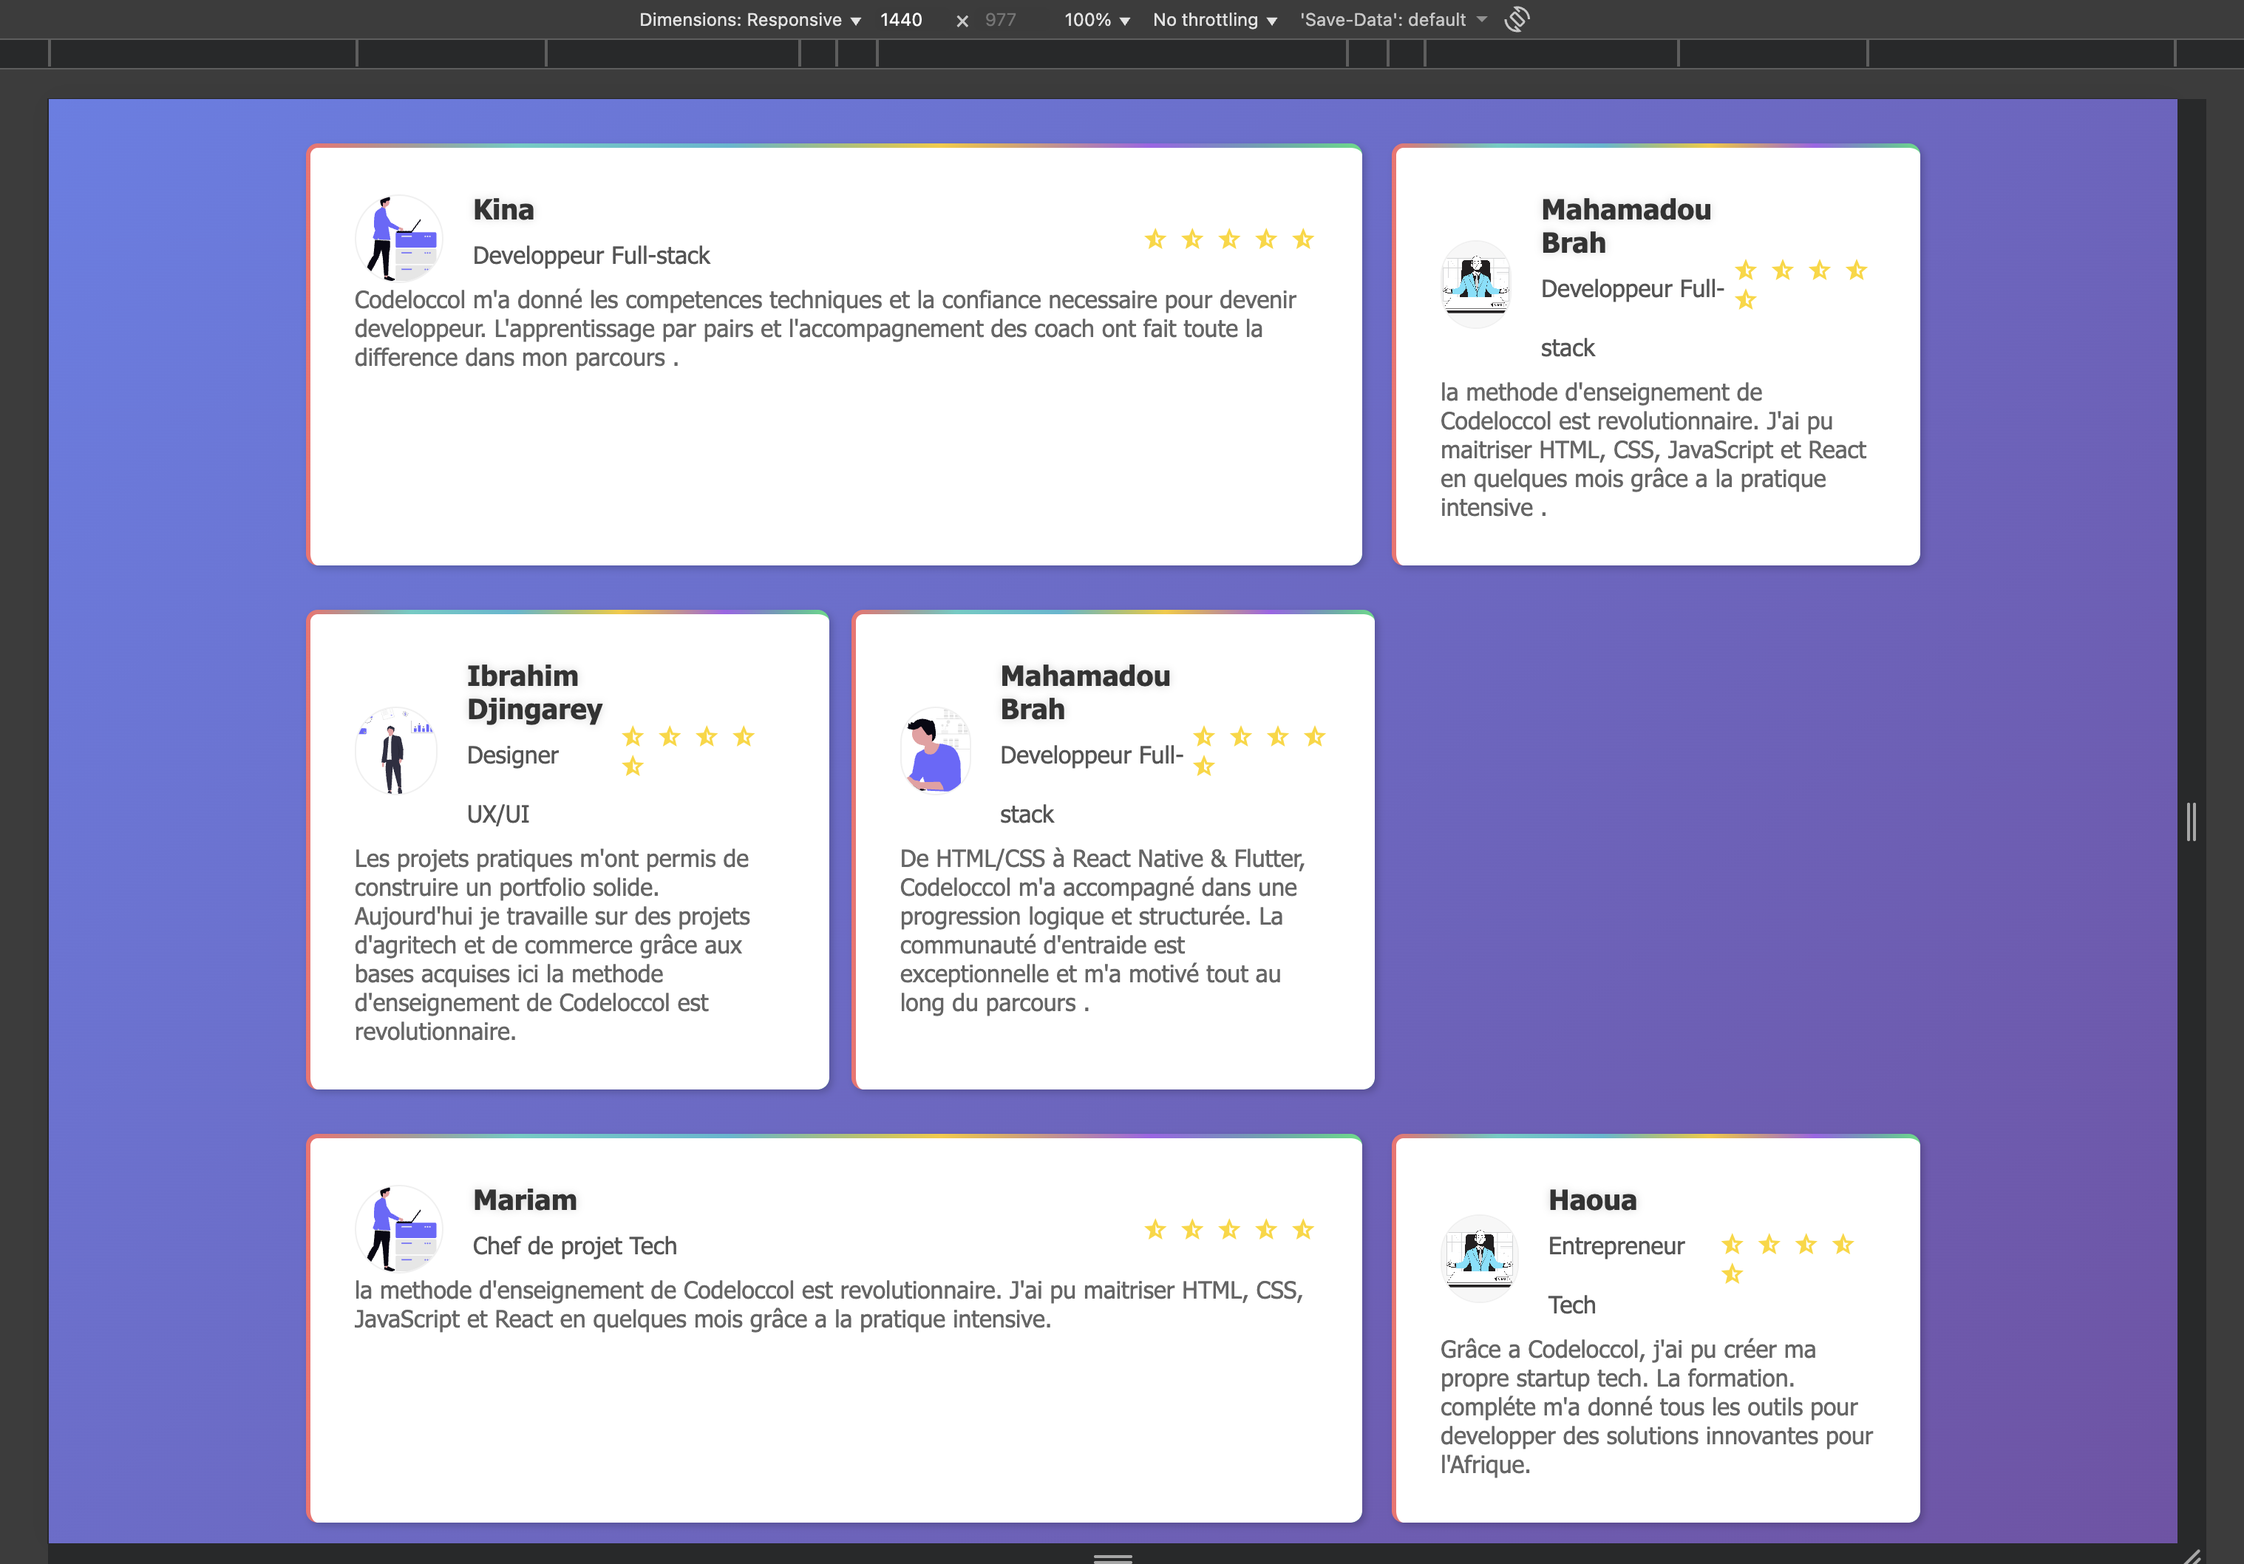
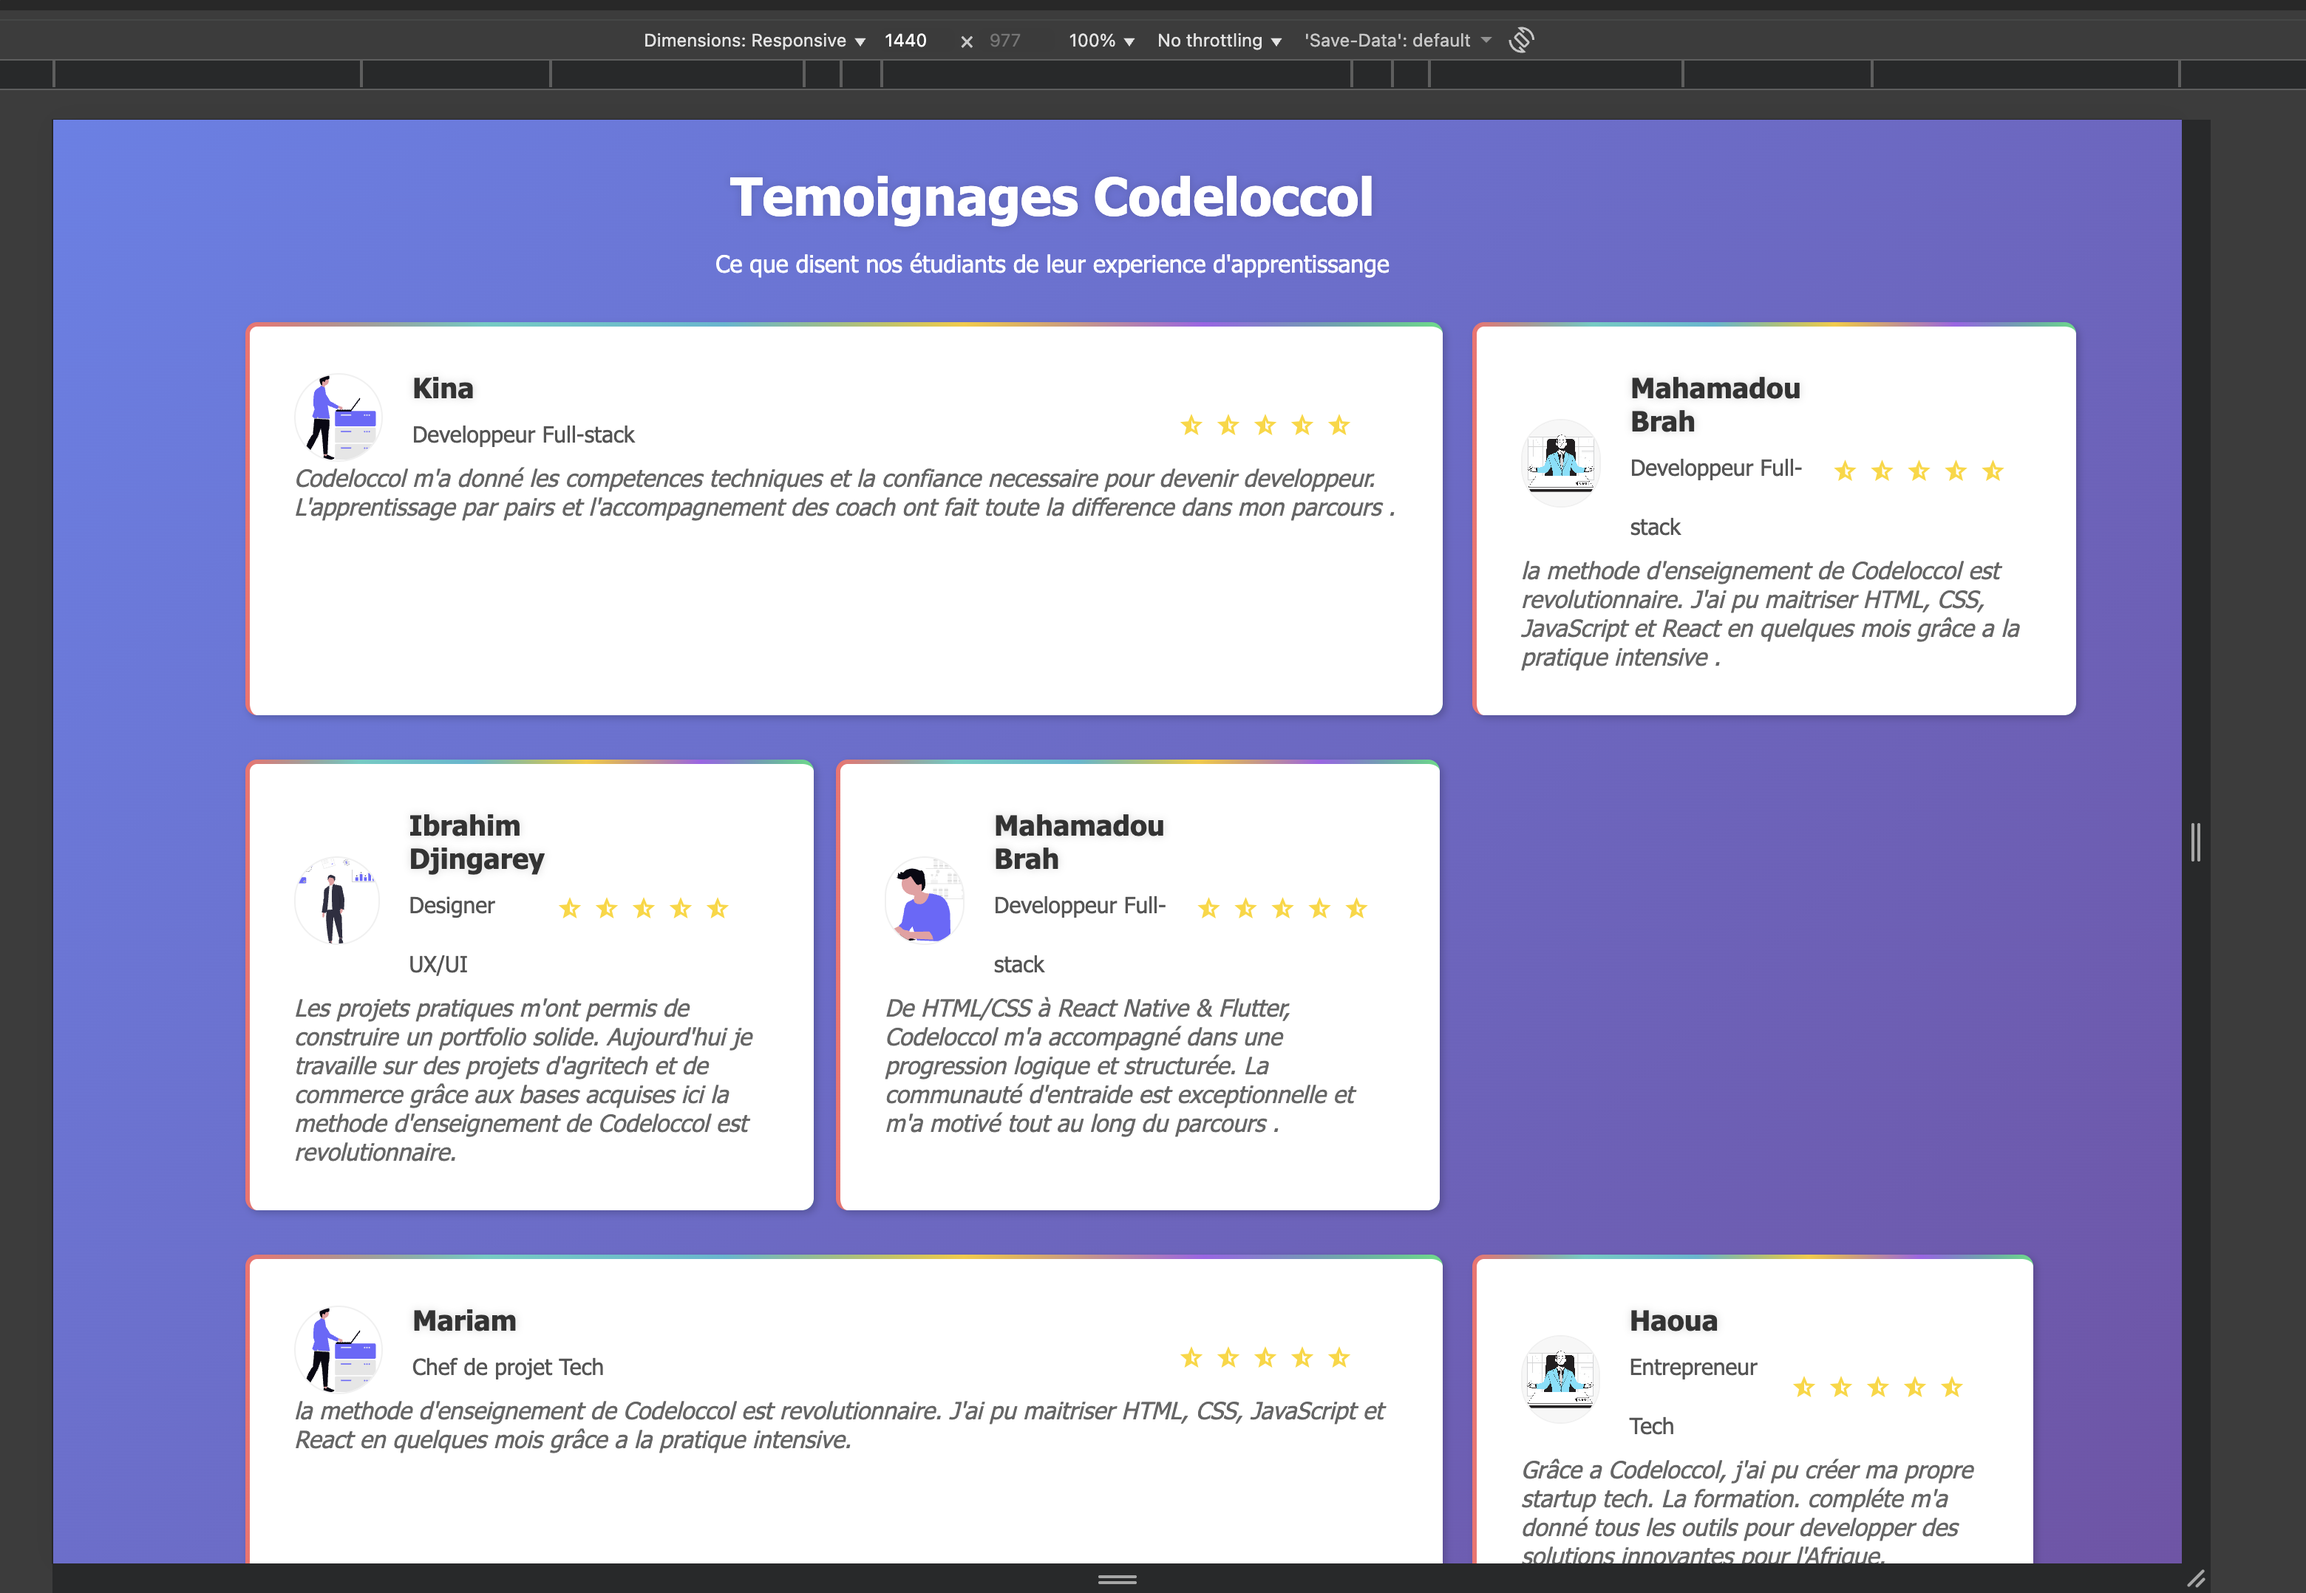
temoignage

diff --git a/index.html b/index.html
@@ -16,7 +16,7 @@
             <p>Ce que disent nos étudiants de leur experience d'apprentissange</p>
         </div>
         <div class="grid">
-            <div class="temoin">
+            <div class="temoin grand">
                 <div class="kina">
                     <div class="personalite">
                         <div class="image">
@@ -44,7 +44,7 @@
 
                 </div>
             </div>
-            <div class="temoin ">
+            <div class="temoin media ">
                 <div class="kina">
                     <div class="personalite">
                         <div class="image">
@@ -72,7 +72,7 @@
                 </div>
             </div>
         </div>
-        <div class="grid section2">
+        <div class="grid section2 media">
             <div class="temoin">
                 <div class="kina">
                     <div class="personalite">
@@ -101,11 +101,11 @@
 
                 </div>
             </div>
-            <div class="temoin">
+            <div class="temoin media">
                 <div class="kina">
                     <div class="personalite">
                         <div class="image">
-                            <img src="./Assets/undraw_working-at-home_pxaa.svg" alt="">
+                            <img src="./Assets/undraw_working-at-home_pxaa.svg" alt="photo de Brah Mahamadou">
                         </div>
                         <div class="dev">
                             <h3>Mahamadou <br>Brah</h3>
@@ -130,7 +130,7 @@
             </div>
         </div>
         <div class="grid">
-            <div class="temoin">
+            <div class="temoin grand">
                 <div class="kina">
                     <div class="personalite">
                         <div class="image">
@@ -157,7 +157,7 @@
 
                 </div>
             </div>
-            <div class="temoin">
+            <div class="temoin media">
                 <div class="kina">
                     <div class="personalite">
                         <div class="image">
@@ -185,7 +185,7 @@
                 </div>
             </div>
         </div>
-        <div class="grid end">
+        <div class="grid end media">
             <div class="temoin yacos">
                 <div class="kina">
                     <div class="personalite">

diff --git a/style.css b/style.css
@@ -105,15 +105,45 @@ span {
 .yacos {
     padding: 50px;
 }
+@media (max-width:1440px) {
+    .icon i{
+        font-size: 1.2rem;
+    }
+    .icon{
+        width: 150px;
+        margin-top: 10px;
+        
+    }
+    .temoignage{
+        margin-left: 100px;
+    }
+   
+    span{
+        font-size: 15px;
+    }
+    .grand{
+        
+        width: 810px;
+    }
+    
+}
 @media (max-width:1024px) {
     .grid{
         display: flex;
         flex-direction: column;
     }
+    .grand{
+        width: 100%;
+        
+    }
     
 }
 @media (max-width:768px) {
     .temoignage{
+        width: 100%;
+        margin: auto;
+    }
+    .grand{
         width: 100%;
     }
    
